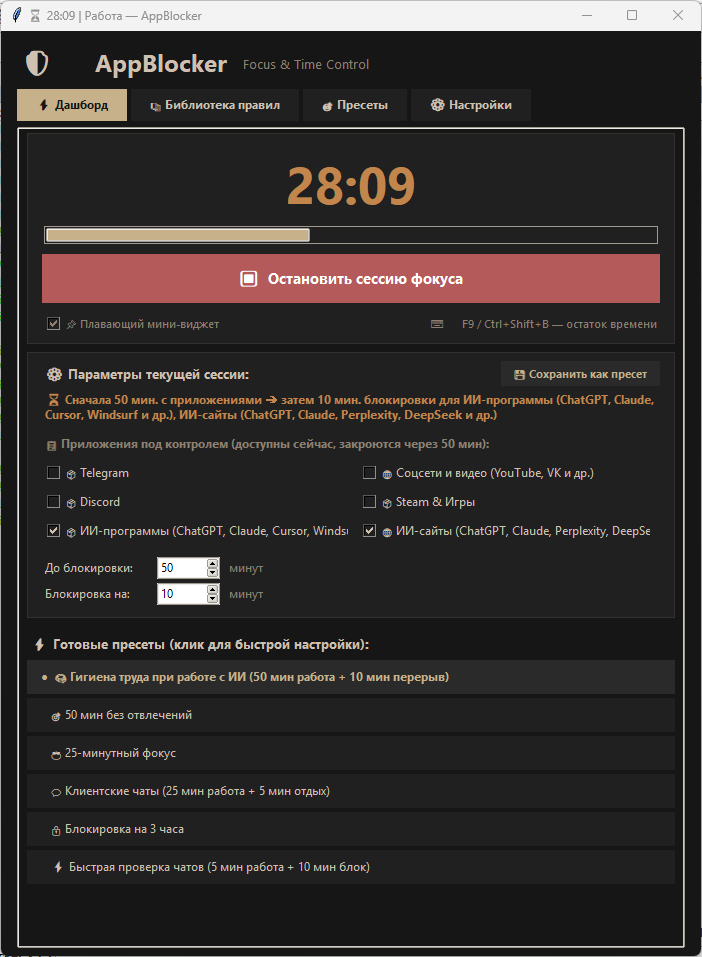
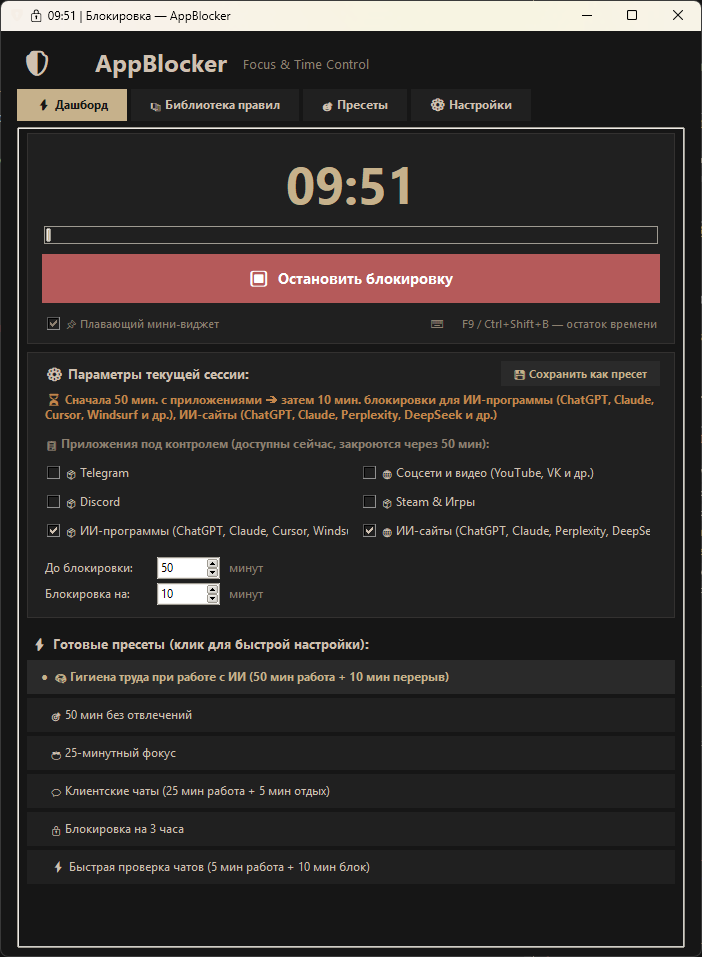
.

Changed region(s): [[0.0598, 0.1515, 0.6581, 0.303], [0.9573, 0.0, 1.0, 1.0], [0.0, 0.0, 0.3291, 0.0303]]

diff --git a/README.md b/README.md
@@ -23,7 +23,7 @@
 |---|---|
 | [Скачать AppBlocker v2.1 (exe)](dist/AppBlocker_v2.1.exe) | [Исходный код (Python)](src/) |
 
-> **Релизы:** Все версии также доступны на странице [Releases](https://github.com/ezzick/AppBlocker/releases) — там можно скачать любую сборку и посмотреть changelog.
+> **Релизы:** Все версии также доступны на странице [Releases](https://github.com/ezzick/appblocker-windows/releases) — там можно скачать любую сборку и посмотреть changelog.
 
 ---
 
@@ -35,7 +35,7 @@
 
 ### Для разработчиков
 ```bash
-git clone https://github.com/ezzick/AppBlocker.git
+git clone https://github.com/ezzick/appblocker-windows.git
 cd AppBlocker
 python src/AppBlocker.pyw
 ```
